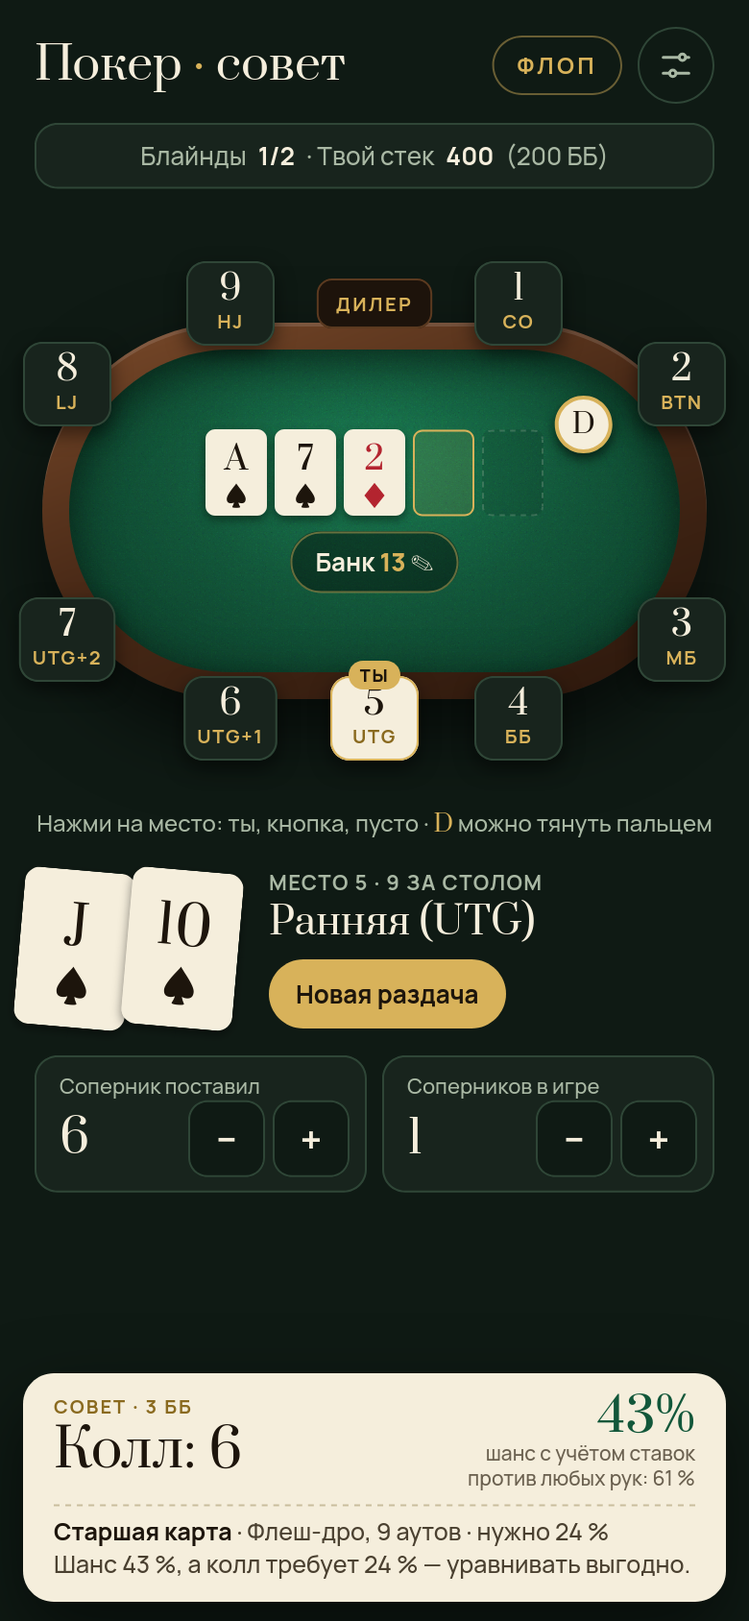
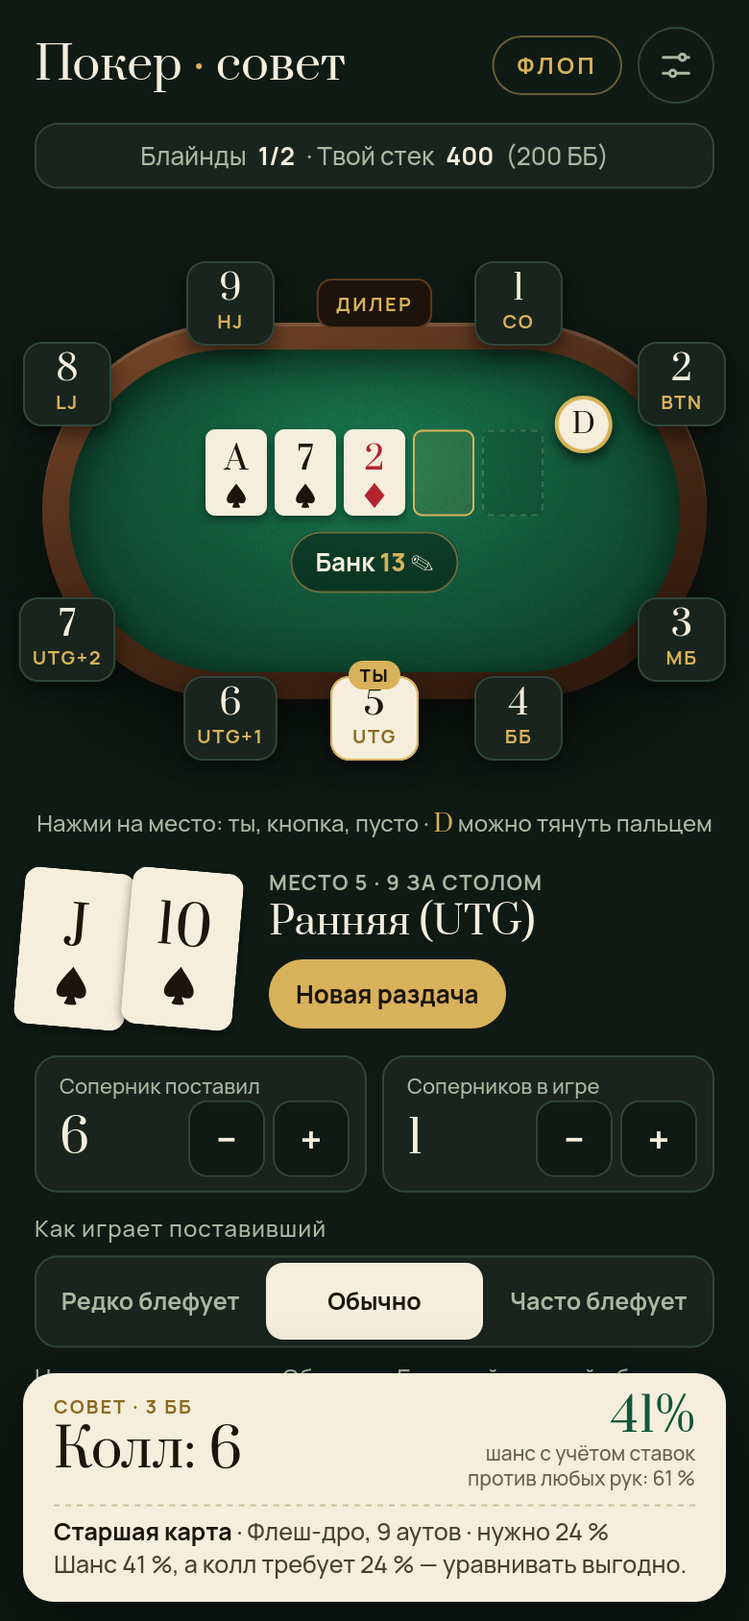
Блеф не растёт со ставкой: тип соперника выбирает игрок; большая ставка = сильная рука

diff --git a/src/postflop.js b/src/postflop.js
@@ -102,16 +102,17 @@ export function whoBeatsYou(hero, board) {
  * pot — банк в центре стола (без ставок этой улицы),
  * toCall — сколько поставил соперник на этой улице (0 = ставок не было),
  * preflopAction — что было префлоп ('none'/'limp'/'raise'/'3bet'),
- * stack — сколько у тебя осталось денег (Infinity = не важно).
+ * stack — сколько у тебя осталось денег (Infinity = не важно),
+ * style — как блефует поставивший: 'rare' (редко), 'normal', 'often' (часто).
  * Возвращает { action, amount, text, reason, equity, randomEquity, handName, draws }.
  */
 export function postflopAdvice({
-  hero, board, opponents = 1, pot, toCall = 0, preflopAction = 'none', stack = Infinity,
-  iterations = 8000, random = Math.random,
+  hero, board, opponents = 1, pot, toCall = 0, preflopAction = 'none', stack = Infinity, style = 'normal',
+  iterations = 8000, random = Math.random, compareStyles = true,
 }) {
   if (board.length < 3 || board.length > 5) throw new Error('На столе должно быть 3, 4 или 5 карт');
   const bet = toCall;
-  const { ranges, value } = opponentRanges({ board, opponents, preflopAction, bet, potBefore: pot });
+  const { ranges, value } = opponentRanges({ board, opponents, preflopAction, bet, potBefore: pot, style });
   const { equity } = calcEquity({ hero, board, opponents, ranges, iterations, random });
   const randomEquity = calcEquity({ hero, board, opponents, iterations: Math.round(iterations / 3), random }).equity;
   const handName = describeHand(hero, board);
@@ -151,20 +152,30 @@ export function postflopAdvice({
   // Повышаем, только если впереди даже против рук, которыми ставят «по делу» (без блефов).
   const vsValue = calcEquity({ hero, board, opponents, ranges: value ? [...value, ...ranges.slice(1)] : ranges,
     iterations: Math.round(iterations / 2), random }).equity;
-  if (vsValue >= Math.max(valueNeed, 0.55) && price < stack) {
+  // На ривере повышение уравняют только руки получше — нужен запас побольше.
+  if (vsValue >= Math.max(valueNeed, river ? 0.7 : 0.55) && price < stack) {
     return result('raise', bet * 3, `Ты впереди даже против рук, которыми так ставят без блефа (${percentText(vsValue)} %), — повышай втрое.`);
   }
   // На флопе впереди ещё ставки: дро без готовой пары реализует шанс не полностью
   // (на тёрне снова придётся платить). При ва-банке ставок больше не будет — без поправки.
   const madeHand = categoryOf(evaluate([...hero, ...board])) >= CATEGORY.PAIR && !describeHand(hero, board).includes('на столе');
-  const realized = board.length === 3 && !madeHand && price < stack ? equity * 0.8 : equity;
+  const realized = board.length === 3 && !madeHand && price < stack ? equity * 0.87 : equity;
+  // Решение зависит от того, как блефует соперник? Скажем об этом прямо.
+  const flip = (other) => {
+    if (!compareStyles || style === other) return null;
+    const alt = postflopAdvice({ hero, board, opponents, pot, toCall, preflopAction, stack, style: other,
+      iterations: Math.round(iterations / 2), random, compareStyles: false });
+    return alt.action;
+  };
   if (realized >= potOdds) {
-    const bluffNote = river && categoryOf(evaluate([...hero, ...board])) >= CATEGORY.PAIR
-      ? ' Часть таких ставок — блеф, его ты бьёшь.' : '';
-    return result('call', price, `Шанс ${percent} %, а колл требует ${need} % — уравнивать выгодно.${bluffNote}`);
+    const rare = flip('rare');
+    const note = rare === 'fold' ? ' Но если он почти не блефует — пас.' : '';
+    return result('call', price, `Шанс ${percent} %, а колл требует ${need} % — уравнивать выгодно.${note}`);
   }
   if (realized < equity && equity >= potOdds) {
     return result('fold', 0, `Шанс ${percent} %, но это до ривера, а на тёрне снова придётся платить: дро стоит около ${percentText(realized)} %, колл требует ${need} %.`);
   }
-  return result('fold', 0, `Шанс ${percent} %, а колл требует ${need} % — в долгую это убыточно.`);
+  const often = flip('often');
+  const note = often === 'call' || often === 'allin' ? ' Но если он часто блефует — колл.' : '';
+  return result('fold', 0, `Шанс ${percent} %, а колл требует ${need} % — в долгую это убыточно.${note}`);
 }

diff --git a/src/ranges.js b/src/ranges.js
@@ -51,19 +51,46 @@ export function hasSomething(a, b, board) {
 const popcount = (n) => { let c = 0; while (n) { c += n & 1; n >>= 1; } return c; };
 
 /**
- * Доля блефа в ставке. По теории (ставка b в долях банка) блефов b / (1 + 2b):
- * полбанка — 25 %, банк — 33 %, два банка — 40 %. Живые игроки блефуют реже —
- * берём 3/4 от теории.
+ * Доля блефа в ставке — зависит от того, как играет соперник (это выбирает игрок:
+ * за столом видно, кто блефует). Ставка тут почти ни при чём: живые игроки огромными
+ * ставками (больше полутора банков) блефуют ещё реже.
  */
-export const bluffShare = (betToPot) => 0.75 * (betToPot / (1 + 2 * betToPot));
+export const BLUFF_STYLE = { rare: 0.08, normal: 0.2, often: 0.35 };
+export const bluffShare = (betToPot, style = 'normal') =>
+  (BLUFF_STYLE[style] ?? BLUFF_STYLE.normal) * (betToPot > 1.5 ? 0.75 : 1);
+
+/**
+ * Руки, которыми ставят «по делу». Чем больше ставка, тем сильнее нужна рука:
+ * до полбанка — лучшие 55 % его рук на этом столе, до банка — 40 %, больше — 22 %.
+ * До ривера к ним добавляются дро (флеш-дро, стрит-дро), если ставка не больше банка.
+ */
+export function valueHands(pre, board, betToPot) {
+  const top = betToPot <= 0.5 ? 0.55 : betToPot <= 1.2 ? 0.4 : 0.22;
+  const scored = pre.map((combo) => ({ combo, v: evaluate([combo[0], combo[1], ...board]) }))
+    .sort((x, y) => y.v - x.v);
+  const cut = scored[Math.max(0, Math.ceil(scored.length * top) - 1)]?.v ?? 0;
+  const strong = scored.filter((x) => x.v >= cut).map((x) => x.combo);
+  if (board.length === 5 || betToPot > 1.2) return strong;
+  const inStrong = new Set(strong.map(([a, b]) => a * 52 + b));
+  const draws = pre.filter(([a, b]) => !inStrong.has(a * 52 + b) && isDraw(a, b, board));
+  return strong.concat(draws);
+}
+
+// Флеш-дро или стрит-дро (без готовой пары).
+function isDraw(a, b, board) {
+  const ranks = board.map(rankOf);
+  if (rankOf(a) === rankOf(b) || ranks.includes(rankOf(a)) || ranks.includes(rankOf(b))) return false;
+  return hasSomething(a, b, board);
+}
 
 /**
  * Диапазоны соперников после флопа.
  * preflopAction — что было префлоп; bet — ставка соперника на этой улице (0 — не ставили);
- * potBefore — банк до этой ставки. Первый соперник — тот, кто поставил.
+ * potBefore — банк до этой ставки, style — как блефует соперник (rare/normal/often).
+ * Первый соперник — тот, кто поставил.
  * Возвращает { ranges, value } — value: диапазон ставящего только «по делу» (без блефов).
  */
-export function opponentRanges({ board, opponents, preflopAction = 'none', bet = 0, potBefore = 0 }) {
+export function opponentRanges({ board, opponents, preflopAction = 'none', bet = 0, potBefore = 0, style = 'normal' }) {
   const aggressorShare = preflopAction === '3bet' ? PREFLOP_SHARE.threeBettor
     : preflopAction === 'raise' ? PREFLOP_SHARE.raiser : PREFLOP_SHARE.open;
   const otherShare = preflopAction === 'raise' || preflopAction === '3bet' ? PREFLOP_SHARE.caller : PREFLOP_SHARE.open;
@@ -76,11 +103,12 @@ export function opponentRanges({ board, opponents, preflopAction = 'none', bet =
   for (let p = 0; p < opponents; p++) {
     const pre = p === 0 ? aggressor : others;
     if (p === 0 && bet > 0) {
-      const strong = pre.filter(([a, b]) => hasSomething(a, b, board));
+      const betToPot = bet / Math.max(potBefore, 1e-9);
+      const strong = valueHands(pre, board, betToPot);
       // Блефуют чаще всего тем, что не попало: из более широкого набора рук.
       const air = combosIn(topClasses(Math.max(aggressorShare, PREFLOP_SHARE.open)))
         .filter(([a, b]) => !hasSomething(a, b, board));
-      const bluff = bluffShare(bet / Math.max(potBefore, 1e-9));
+      const bluff = bluffShare(betToPot, style);
       ranges.push({ groups: [strong, air], weights: [1 - bluff, bluff] });
       value = [plain(strong)];
     } else {

diff --git a/tests/advice.test.js b/tests/advice.test.js
@@ -96,8 +96,8 @@ test('постфлоп: дро уравнивает только по хорош
   // на тёрне снова придётся платить.
   assert.equal(post('Js Ts', 'As 7s 2d', { pot: 20, toCall: 20, preflopAction: 'raise' }).action, 'call');
   assert.equal(post('Js Ts', 'As 7s 2d', { pot: 20, toCall: 60, preflopAction: 'raise' }).action, 'fold');
-  // Тот же ва-банк последними деньгами — уже колл: дальше платить не придётся.
-  assert.equal(post('Js Ts', 'As 7s 2d', { pot: 20, toCall: 60, stack: 60, preflopAction: 'raise' }).action, 'allin');
+  // Ва-банк в размер банка последними деньгами — колл: дальше платить не придётся.
+  assert.equal(post('Js Ts', 'As 7s 2d', { pot: 20, toCall: 20, stack: 20, preflopAction: 'raise' }).action, 'allin');
 });
 
 test('постфлоп: совет приходит быстро', () => {
@@ -133,17 +133,22 @@ test('проценты у краёв — с десятыми', async () => {
 });
 
 // Раздачи владельца, на которых старая модель ошибалась (2026-10-05).
-test('AA на K-K-8-4-2 против большой ставки — колл, а не пас с 32 %', () => {
-  const r = post('Ac Ah', '4d Kc Kd 8s 2c', { pot: 250, toCall: 1000, opponents: 2 });
-  assert.equal(r.action, 'call');
-  assert.ok(r.equity > 0.45 && r.equity < 0.75, `шанс ${r.equity}`);
+test('AA на K-K-8-4-2: против ставки в банк — колл, против ставки в 4 банка — пас', () => {
+  const pot = post('Ac Ah', '4d Kc Kd 8s 2c', { pot: 1000, toCall: 1000, opponents: 1 });
+  assert.equal(pot.action, 'call');
+  assert.ok(pot.equity > 0.4, `шанс ${pot.equity}`);
+  // Огромной ставкой обычно ставят сильную руку (короля или фулл-хаус).
+  assert.equal(post('Ac Ah', '4d Kc Kd 8s 2c', { pot: 250, toCall: 1000, opponents: 2 }).action, 'fold');
 });
 
-test('QQ на A-8-8-4-2 против одного — колл; шанс точно не 1 %', () => {
-  const r = post('Qh Qd', '4d Ad 8c 8s 2c', { pot: 750, toCall: 500, opponents: 1 });
-  assert.equal(r.action, 'call');
-  assert.ok(r.equity > 0.3, `шанс ${r.equity}`);
-  assert.ok(r.randomEquity > 0.7, `против случайных ${r.randomEquity}`);
+test('QQ на A-8-8-4-2: решение зависит от того, как блефует соперник, и приложение это говорит', () => {
+  const normal = post('Qh Qd', '4d Ad 8c 8s 2c', { pot: 750, toCall: 500, opponents: 1 });
+  assert.ok(normal.equity > 0.1, `шанс ${normal.equity}`); // было 1 %
+  assert.ok(normal.randomEquity > 0.7, `против любых рук ${normal.randomEquity}`);
+  assert.equal(normal.action, 'fold');
+  assert.match(normal.reason, /часто блефует — колл/);
+  const often = post('Qh Qd', '4d Ad 8c 8s 2c', { pot: 750, toCall: 500, opponents: 1, style: 'often' });
+  assert.equal(often.action, 'call');
 });
 
 test('префлоп: шанс считается против тех, кто играет, а не против всего стола', async () => {

diff --git a/app.js b/app.js
@@ -22,6 +22,7 @@ const state = {
   button: saved.button || 2,
   bb: saved.bb || 2,
   stack: saved.stack || 0, // 0 — не указан
+  style: saved.style || 'normal', // как блефует поставивший соперник
   hole: [null, null],
   board: [null, null, null, null, null],
   preflop: 'none', limpers: 1, raiseTo: 0,
@@ -30,7 +31,7 @@ const state = {
 const persist = () => {
   try {
     localStorage.setItem('poker-table', JSON.stringify(
-      { occupied: state.occupied, hero: state.hero, button: state.button, bb: state.bb, stack: state.stack }));
+      { occupied: state.occupied, hero: state.hero, button: state.button, bb: state.bb, stack: state.stack, style: state.style }));
   } catch { /* приватный режим — просто не запоминаем */ }
 };
 
@@ -275,9 +276,14 @@ function renderInputs() {
       render();
     };
   } else {
+    const styles = [['rare', 'Редко блефует'], ['normal', 'Обычно'], ['often', 'Часто блефует']];
     box.innerHTML = `<div class="steppers">
       ${stepper('toCall', 'Соперник поставил', state.bb)}
-      ${stepper('opponents', 'Соперников в игре', 1, 1, others)}</div>`;
+      ${stepper('opponents', 'Соперников в игре', 1, 1, others)}</div>
+      ${state.toCall ? `<div><div class="label">Как играет поставивший</div>
+        <div class="segments">${styles.map(([k, t]) => `<button data-style="${k}" aria-pressed="${state.style === k}">${t}</button>`).join('')}</div>
+        <div class="explain">Не знаешь — оставь «Обычно». Большой ставкой обычно ставят сильную руку.</div></div>` : ''}`;
+    for (const b of box.querySelectorAll('[data-style]')) b.onclick = () => { state.style = b.dataset.style; persist(); render(); };
   }
   bindSteppers(box);
 }
@@ -353,7 +359,7 @@ function renderTicket() {
     } else {
       const board = state.board.filter((c) => c !== null);
       advice = postflopAdvice({ hero, board, opponents: state.opponents, pot: state.pot,
-        toCall: state.toCall, preflopAction: state.preflop, stack: stackOrInf(), iterations: 6000 });
+        toCall: state.toCall, preflopAction: state.preflop, stack: stackOrInf(), style: state.style, iterations: 6000 });
       equity = advice.equity;
       gaugeNote = `против любых рук: ${percentText(advice.randomEquity)} %`;
       const price = Math.min(state.toCall, stackOrInf());

diff --git a/docs/proverka-sovetov.md b/docs/proverka-sovetov.md
@@ -34,25 +34,27 @@
 | # | Раздача | Карты · стол | Банк / ставка | Совет | Шанс (против любых) | Ждём | |
 |---|---|---|---|---|---|---|---|
 | 23 | Старшая пара с лучшим кикером, тебе чек | As Kd · Ah 7c 2d | 13 / — | **Ставка 8.6** | 88 % (89 %) | ставка | ✅ |
-| 24 | Старшая пара, ставка в полбанка | As Kd · Ah 7c 2d | 13 / 6 | **Рейз до 18** | 85 % (89 %) | колл или рейз | ✅ |
+| 24 | Старшая пара, ставка в полбанка | As Kd · Ah 7c 2d | 13 / 6 | **Рейз до 18** | 83 % (89 %) | колл или рейз | ✅ |
 | 25 | Ничего не попало, тебе чек | 7s 6s · Ah Kc 2d | 13 / — | **Чек** | 6 % (21 %) | чек | ✅ |
-| 26 | Ничего не попало, ставка | 7s 6s · Ah Kc 2d | 13 / 9 | **Пас** | 9 % (22 %) | пас | ✅ |
+| 26 | Ничего не попало, ставка | 7s 6s · Ah Kc 2d | 13 / 9 | **Пас** | 10 % (22 %) | пас | ✅ |
 | 27 | Сет семёрок, ставка | 7s 7d · Kh 7c 2h | 13 / 9 | **Рейз до 27** | 91 % (95 %) | рейз | ✅ |
-| 28 | Флеш-дро, ставка в банк | Js Ts · As 7s 2d | 13 / 13 | **Колл 13** | 45 % (61 %) | колл | ✅ |
-| 29 | Флеш-дро, ставка в три банка | Js Ts · As 7s 2d | 13 / 39 | **Пас** | 47 % (63 %) | пас | ✅ |
-| 30 | Двустороннее стрит-дро, ставка в полбанка | 9s 8d · 7c 6h Kd | 13 / 6 | **Колл 6** | 36 % (50 %) | колл | ✅ |
-| 31 | Гатшот, ставка в банк | 9s 8d · 6c 5h Kd | 13 / 13 | **Пас** | 23 % (39 %) | пас | ✅ |
-| 32 | Туз со слабым кикером, ставка в банк | Ad 3c · As Jh 8d | 13 / 13 | **Колл 13** | 69 % (83 %) | колл или пас | ✅ |
-| 33 | Оверпара QQ, тебе чек | Qs Qd · 8h 5c 2d | 13 / — | **Ставка 8.6** | 78 % (81 %) | ставка | ✅ |
-| 34 | QQ на столе A-K, ставка | Qs Qd · Ah Kc 4d | 13 / 9 | **Колл 9** | 49 % (73 %) | пас или колл | ✅ |
+| 28 | Флеш-дро, ставка в банк | Js Ts · As 7s 2d | 13 / 13 | **Колл 13** (если он почти не блефует — пас) | 41 % (62 %) | колл | ✅ |
+| 29 | Флеш-дро, ставка в три банка | Js Ts · As 7s 2d | 13 / 39 | **Пас** | 40 % (63 %) | пас | ✅ |
+| 30 | Двустороннее стрит-дро, ставка в полбанка | 9s 8d · 7c 6h Kd | 13 / 6 | **Колл 6** | 38 % (50 %) | колл | ✅ |
+| 31 | Гатшот, ставка в банк | 9s 8d · 6c 5h Kd | 13 / 13 | **Пас** | 20 % (39 %) | пас | ✅ |
+| 32 | Туз со слабым кикером, ставка в банк | Ad 3c · As Jh 8d | 13 / 13 | **Колл 13** | 54 % (84 %) | колл или пас | ✅ |
+| 33 | Оверпара QQ, тебе чек | Qs Qd · 8h 5c 2d | 13 / — | **Ставка 8.6** | 79 % (80 %) | ставка | ✅ |
+| 34 | QQ на столе A-K, ставка | Qs Qd · Ah Kc 4d | 13 / 9 | **Колл 9** | 39 % (72 %) | пас или колл | ✅ |
 | 35 | Ривер: натсовый флеш, ставка | Ah 5h · Kh 9h 2c 7h Js | 40 / 20 | **Рейз до 60** | 100 % (100 %) | рейз или ва-банк | ✅ |
-| 36 | Ривер: младшая пара, огромная ставка | 3s 3d · Kh 9c 7d 5s 2h | 40 / 80 | **Пас** | 30 % (47 %) | пас | ✅ |
-| 37 | Ривер: старшая пара, маленькая ставка | Kd Qc · Kh 9c 7d 5s 2h | 40 / 10 | **Рейз до 30** | 75 % (87 %) | колл или рейз | ✅ |
-| 38 | Ривер: AA на K-K-8-4-2 (твоя раздача) | Ac Ah · 4d Kc Kd 8s 2c | 250 / 1000 | **Колл 1000** | 59 % (82 %) | колл | ✅ |
-| 39 | Ривер: QQ на A-8-8-4-2, один (твоя) | Qh Qd · 4d Ad 8c 8s 2c | 750 / 500 | **Колл 500** | 42 % (75 %) | колл | ✅ |
-| 40 | Тёрн: две пары, ставка, трое в игре | Ks 9s · Kh 9c 4d 2s | 30 / 20 | **Рейз до 60** | 85 % (88 %) | рейз или колл | ✅ |
-| 41 | Старшая пара, хороший кикер, трое, чек | As Qd · Qh 8c 3d | 12 / — | **Ставка 7.9** | 62 % (66 %) | ставка | ✅ |
-| 42 | Короткий стек: старшая пара, ставка | As Kd · Kh 8c 3d | 40 / 20 | **Ва-банк 30** | 83 % (90 %) | ва-банк | ✅ |
-| 43 | Готовый стрит, тебе чек | Jd Ts · 9h 8c 7d | 13 / — | **Ставка 8.6** | 93 % (95 %) | ставка | ✅ |
+| 36 | Ривер: младшая пара, огромная ставка | 3s 3d · Kh 9c 7d 5s 2h | 40 / 80 | **Пас** | 15 % (47 %) | пас | ✅ |
+| 37 | Ривер: старшая пара, маленькая ставка | Kd Qc · Kh 9c 7d 5s 2h | 40 / 10 | **Колл 10** | 75 % (88 %) | колл или рейз | ✅ |
+| 38 | Ривер: AA на K-K-8-4-2, ставка в 4 банка (твоя) | Ac Ah · 4d Kc Kd 8s 2c | 250 / 1000 | **Пас** | 12 % (81 %) | пас | ✅ |
+| 39 | Ривер: AA на K-K-8-4-2, ставка в банк | Ac Ah · 4d Kc Kd 8s 2c | 1000 / 1000 | **Колл 1000** | 55 % (91 %) | колл | ✅ |
+| 40 | Ривер: AA на K-K-8-4-2, ставка в полбанка | Ac Ah · 4d Kc Kd 8s 2c | 1000 / 500 | **Колл 500** | 68 % (90 %) | колл | ✅ |
+| 41 | Ривер: QQ на A-8-8-4-2, один (твоя) — зависит от блефа | Qh Qd · 4d Ad 8c 8s 2c | 750 / 500 | **Пас** (если он часто блефует — колл) | 20 % (77 %) | пас или колл | ✅ |
+| 42 | Тёрн: две пары, ставка, трое в игре | Ks 9s · Kh 9c 4d 2s | 30 / 20 | **Рейз до 60** | 85 % (89 %) | рейз или колл | ✅ |
+| 43 | Старшая пара, хороший кикер, трое, чек | As Qd · Qh 8c 3d | 12 / — | **Ставка 7.9** | 62 % (66 %) | ставка | ✅ |
+| 44 | Короткий стек: старшая пара, ставка | As Kd · Kh 8c 3d | 40 / 20 | **Ва-банк 30** | 83 % (90 %) | ва-банк | ✅ |
+| 45 | Готовый стрит, тебе чек | Jd Ts · 9h 8c 7d | 13 / — | **Ставка 8.6** | 93 % (95 %) | ставка | ✅ |
 
-Не совпало с ожиданием: 0 из 43
+Не совпало с ожиданием: 0 из 45

diff --git a/CLAUDE.md b/CLAUDE.md
@@ -76,14 +76,19 @@
 ## Модель советов (переделана 2026-10-05 после жалоб владельца на «ложные проценты»)
 
 - Против случайных рук расчёт сверен с калькуляторами (PokerStove/Equilab): `node scripts/compare-equity.mjs`.
-- Соперники (src/ranges.js): поставивший — «по делу» (пара+ или дро) плюс блефы в доле 3/4 от теории
-  b/(1+2b); остальные — обычный префлоп-диапазон (НЕ «все попали в стол» — это давало QQ 1 %).
+- Соперники (src/ranges.js): поставивший — руки «по делу» плюс блефы; остальные — обычный префлоп-
+  диапазон (НЕ «все попали в стол» — это давало QQ 1 %). «По делу» зависит от размера ставки: лучшие
+  55 % / 40 % / 22 % его рук на этом столе (до полбанка / до банка / больше) + дро, если ставка ≤ банка.
+  Доля блефа НЕ растёт со ставкой (владелец не согласен с теорией b/(1+2b), 2026-10-05): её выбирает
+  владелец переключателем «Редко блефует 8 % / Обычно 20 % / Часто 35 %», при ставке > 1,5 банка ×0,75.
+  Если решение меняется от типа соперника — совет говорит это («Но если он часто блефует — колл»).
 - Повышаем, только если впереди против ставящего без блефов; колл — шанс против цены колла;
-  на флопе дро без пары засчитывается на 80 % (дальше ещё ставки), кроме ва-банка.
+  на флопе дро без пары засчитывается на 87 % (дальше ещё ставки), кроме ва-банка.
+  На ривере рейз — только если против рук «по делу» шанс ≥ 70 %.
 - Префлоп-шанс — против тех, кто реально играет (одного/лимперов/повысившего), не против всего стола.
 - Стек: до 15 ББ — «ва-банк или пас» (рейтинг один на один HAND_RANKS_HU, пары всегда в ва-банк до 10 ББ);
   ставка ≥ половины стека → ва-банк.
-- Прогон 43 типичных раздач с ожидаемыми решениями: `node scripts/review.mjs` (входит в `npm test`),
+- Прогон 45 типичных раздач с ожидаемыми решениями: `node scripts/review.mjs` (входит в `npm test`),
   результат для владельца — docs/proverka-sovetov.md. Новая жалоба владельца → добавить раздачу сюда.
 - Экран: банк вводится нажатием на «Банк» на столе (банк = деньги в центре, без ставки улицы),
   «Соперник поставил» — отдельно; строка «Блайнды · Твой стек» вверху; без зума от двойного касания.
